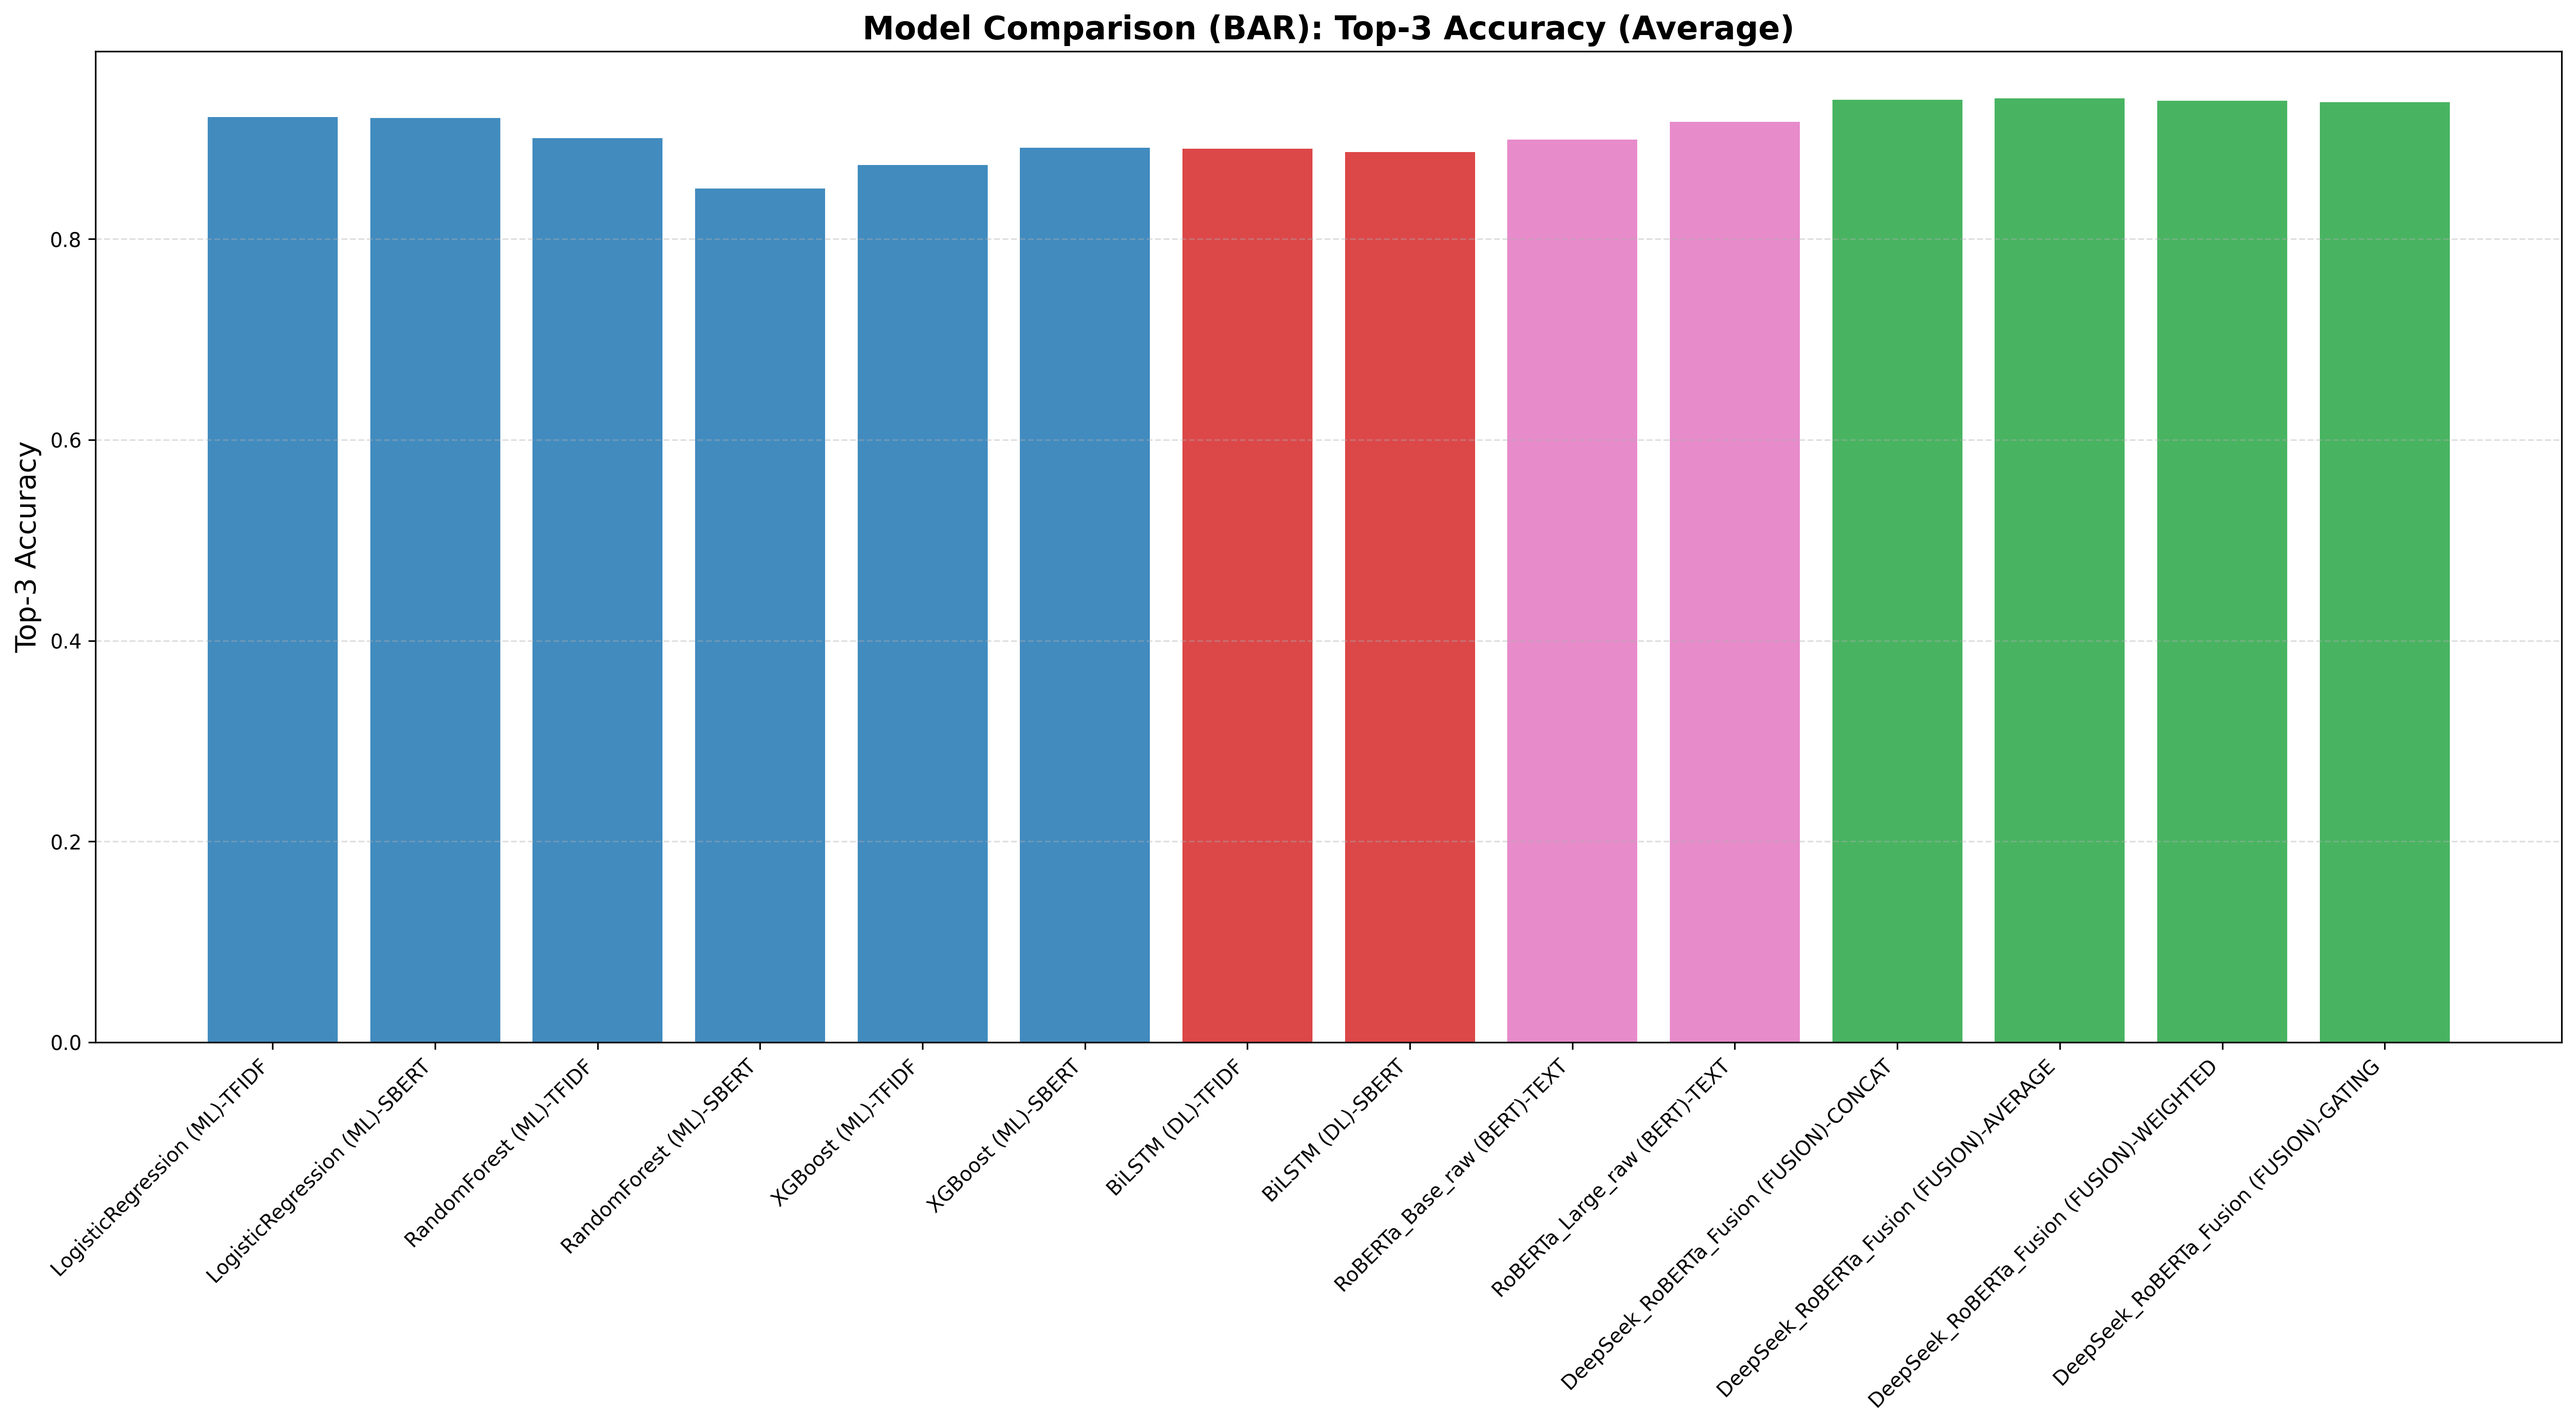
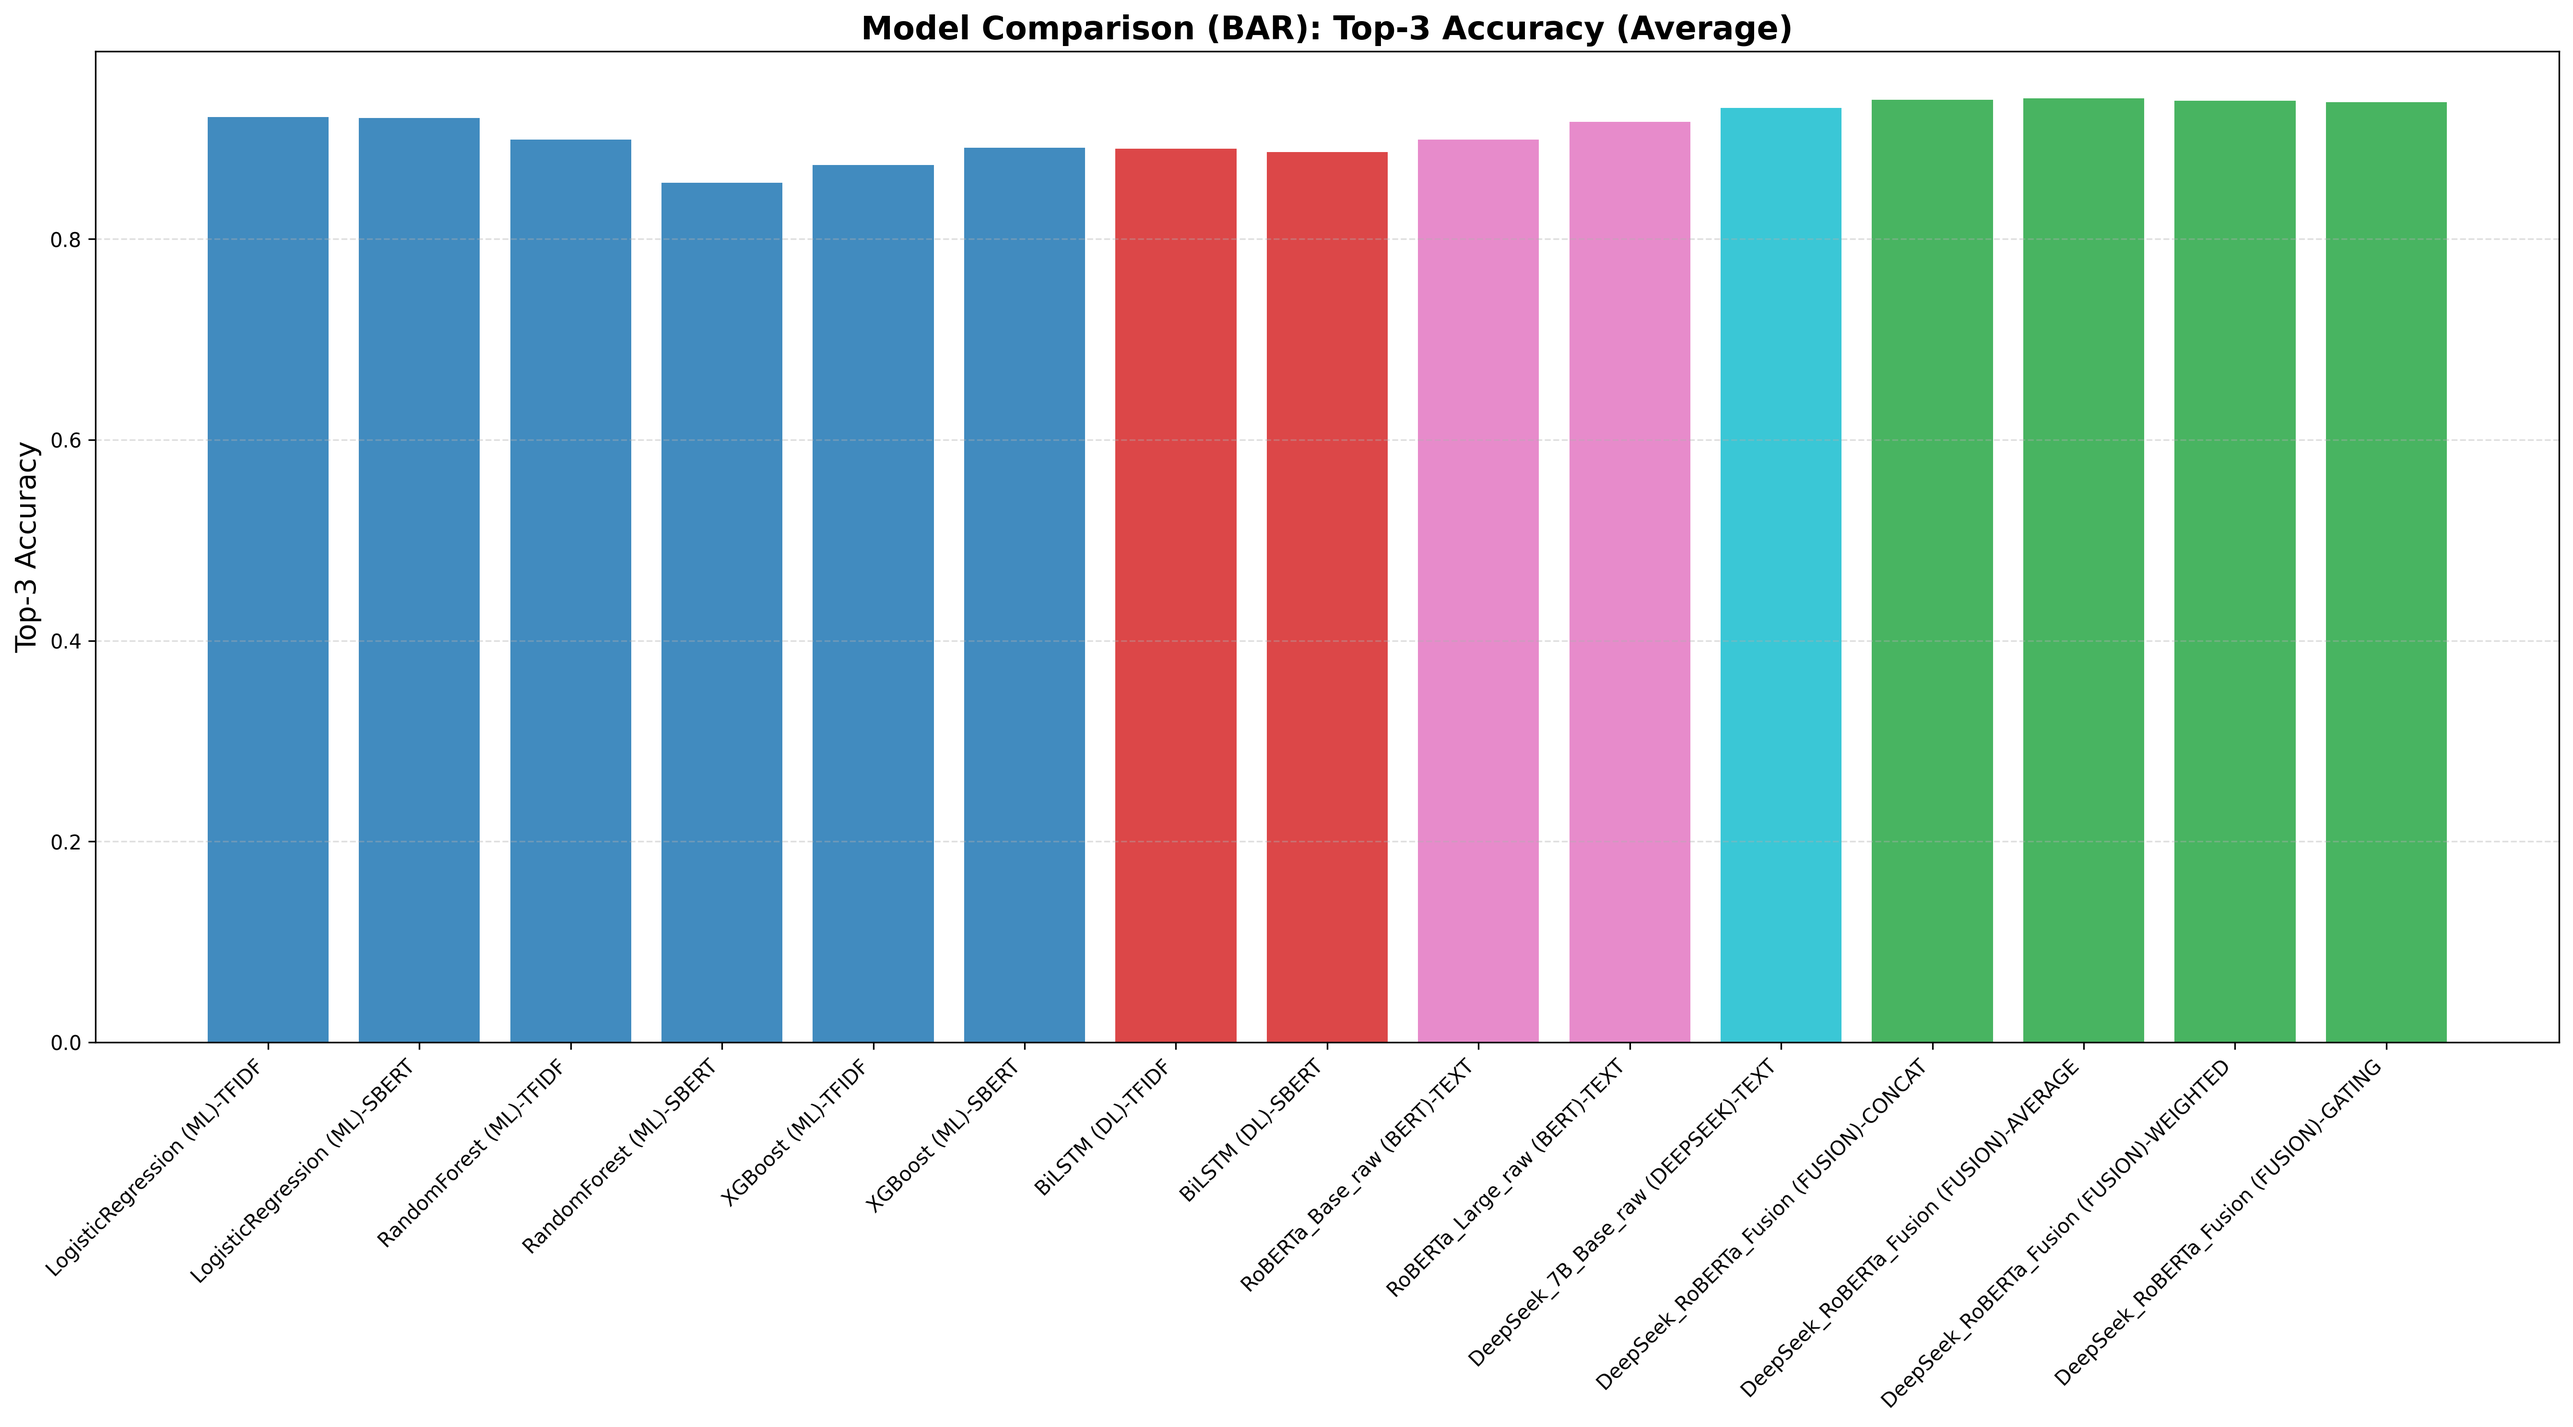
deepseek model added

diff --git a/Phase-04/web_services_classification/src/config.py b/Phase-04/web_services_classification/src/config.py
@@ -288,7 +288,8 @@ BERT_CONFIG = {
 
 # DeepSeek Models configuration
 DEEPSEEK_CONFIG = {
-    'model_type': 'deepseek',  # ← Added
+    'model_type': 'deepseek',  # ← Adde
+    'available_models': {"deepseek": "deepseek-ai/deepseek-llm-7b-base"},
     'models': [ 'deepseek-ai/deepseek-llm-7b-base'],
     'trust_remote_code': True,
     'max_length': 512,
